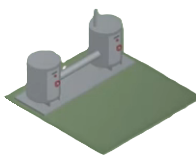
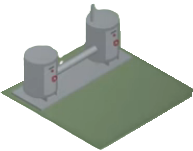
Add LabelMe polygon spike artifacts

diff --git a/spikes/labelme_polygon/notes.md b/spikes/labelme_polygon/notes.md
@@ -1,47 +1,83 @@
-# Notes: labelme_polygon spike — concrete execution plan
+# Notes: labelme_polygon spike - first controlled test
 
-Purpose
-- Track the step-by-step plan for validating whether LabelMe-style polygon annotation yields usable `mask_file` and `final_output_file` artifacts for VikVec.
+## Purpose
 
-Planned steps (do not install anything yet)
-1. Prepare test inputs: confirm `input/reference_scene.png` exists in the workspace. If it does not exist, add a small representative image under `spikes/labelme_polygon/inputs/`.
-2. (Manual) Open the image in LabelMe (desktop) and draw a polygon around `scene_process_tanks_iso_01`, excluding neighboring fragments.
-3. Export LabelMe JSON annotation and, if possible, an exported mask PNG. Capture a screenshot of the polygon in the UI.
-4. Locally (prototype script), convert the polygon into a mask PNG if LabelMe did not export one. Do this in the spike folder only.
-5. Apply the mask to the source image to produce a `final_output_file` RGBA (alpha) PNG.
-6. Record results in `spikes/labelme_polygon/notes.md` and copy artifacts to `spikes/labelme_polygon/outputs/`.
+Track the plan and later findings for validating whether a LabelMe-style polygon annotation workflow can produce clean mask data for VikVec before testing heavier model-backed inference.
 
-Checklist for each run
+## Test contract
+
+- Test image: `input/reference_scene.png`
+- Target asset: `scene_process_tanks_iso_01`
+- Core question: Can a LabelMe-style polygon annotation workflow create a clean mask around the process/tank scene and export data that VikVec can use?
+- Expected manual annotation: one polygon around only the tank/process scene, excluding neighboring fragments.
+- Initial manifest example: `spikes/labelme_polygon/example_manifest_entry.json`
+
+## Planned steps (do not install anything yet)
+
+1. Confirm `input/reference_scene.png` is present.
+2. After explicit approval, install/run LabelMe locally.
+3. Open `input/reference_scene.png` in LabelMe.
+4. Draw a polygon around `scene_process_tanks_iso_01`, excluding neighboring fragments and unrelated scene pieces.
+5. Save the LabelMe JSON annotation under `spikes/labelme_polygon/outputs/`.
+6. Record the polygon points from the LabelMe JSON.
+7. Export a mask PNG if LabelMe supports it in the approved local setup; otherwise plan a small spike-only JSON-to-mask conversion helper later.
+8. Later, apply the mask to produce a transparent PNG and record the `final_output_file` path.
+9. Later, update the manifest entry fields once real outputs exist.
+
+## Expected outputs
+
+- LabelMe JSON annotation.
+- Polygon points for the target asset.
+- `mask_file` or `polygon` field.
+- `final_output_file` transparent PNG path later.
+- Manifest entry later.
+
+## Checklist for each run
+
 - Input present: `input/reference_scene.png`
-- Polygon JSON exported and polygon points verified
-- Mask PNG present (either exported or generated)
-- `final_output_file` RGBA produced and visually verified (no neighboring fragments)
-- Manifest mapping verified: polygon points and mask path recorded
+- Polygon JSON exported.
+- Polygon points verified.
+- Mask PNG present, either exported or generated later.
+- `final_output_file` RGBA produced later.
+- Visual review confirms no neighboring scene fragments remain.
+- Manifest mapping verified for `extraction_method`, `mask_type`, `polygon`, `mask_file`, `final_output_file`, and `review_status`.
 
-Mapping to VikVec manifest fields (example)
+## VikVec manifest mapping
+
 ```
 {
-	"asset_name": "scene_process_tanks_iso_01",
-	"extraction_method": "labelme_polygon",
-	"mask_type": "polygon",
-	"polygon": [[x1,y1],[x2,y2],...],
-	"mask_file": "spikes/labelme_polygon/outputs/scene_process_tanks_mask.png",
-	"final_output_file": "spikes/labelme_polygon/outputs/scene_process_tanks_final.png",
-	"review_status": "final_needs_visual_review"
+  "asset_name": "scene_process_tanks_iso_01",
+  "extraction_method": "labelme_polygon",
+  "mask_type": "polygon",
+  "polygon": [],
+  "mask_file": "spikes/labelme_polygon/outputs/scene_process_tanks_iso_01_mask.png",
+  "final_output_file": "spikes/labelme_polygon/outputs/scene_process_tanks_iso_01.png",
+  "review_status": "needs_annotation"
 }
 ```
 
-Success criteria
-- One clean transparent PNG produced for the target asset with no neighboring fragments.
-- Polygon points are storable and mappable in the manifest as above.
+## Success criteria
 
-Risk and mitigations
-- Risk: LabelMe requires desktop and PyQt. Mitigation: do not install as part of this spike; run manual evaluation on a separate approved machine or get approval first.
+- No neighboring scene fragments remain.
+- Polygon points can be stored in the VikVec manifest.
+- Output can map to:
+  - `extraction_method: labelme_polygon`
+  - `mask_type: polygon`
+  - `polygon`
+  - `mask_file`
+  - `final_output_file`
+  - `review_status`
 
-Recordkeeping
+## Dependency risk
+
+Low to medium. LabelMe is lighter than SAM/SAM2 and tests the review workflow before model inference, but it can still involve Python desktop UI dependencies such as PyQt.
+
+## Recordkeeping
+
 - Save screenshots, exported JSON, generated mask PNG, and final RGBA in `spikes/labelme_polygon/outputs/` with timestamps.
+- Do not modify VikVec core code as part of this spike.
+- Do not install SAM/SAM2, torch, Stable Diffusion, LaMa, or checkpoints.
 
-Next actions after approval
-- If the manual spike succeeds and the process is valuable, propose either:
-	- a small helper script in `spikes/labelme_polygon/` to convert LabelMe JSON → mask PNG and integrate into a `vikvec/backends/labelme_polygon.py` adapter (design only), or
-	- document a reviewer workflow linking to `docs/spike_plan_mask_tools.md` and update architecture docs.
+## Next action after approval
+
+Install and run LabelMe locally, then annotate `input/reference_scene.png` and save the JSON output under `spikes/labelme_polygon/outputs/`.

diff --git a/spikes/labelme_polygon/README.md b/spikes/labelme_polygon/README.md
@@ -1,36 +1,66 @@
-# Spike: labelme_polygon — concrete test plan
+# Spike: labelme_polygon - first controlled test
 
-Question tested
-- Can a LabelMe-style polygon annotation workflow produce a usable `mask_file` and `final_output_file` for VikVec for a single target asset (without installing dependencies now)?
+## Constraint
 
-Test image
+Do not install LabelMe, SAM, SAM2, PyTorch, Stable Diffusion, LaMa, model checkpoints, or external repos for this documentation step. This spike only defines the first manual polygon workflow test and expected VikVec manifest mapping.
+
+## Question
+
+Can a LabelMe-style polygon annotation workflow create a clean mask around the process/tank scene and export data that VikVec can use?
+
+## Test image
+
 - `input/reference_scene.png`
 
-Target asset
-- `scene_process_tanks_iso_01` (first target: annotate the tank/process scene)
+## Target asset
 
-Expected annotation
-- A polygon drawn around only the tank/process scene, explicitly excluding neighboring fragments and other scene clutter.
+- `scene_process_tanks_iso_01`
 
-Expected LabelMe output
-- A JSON annotation file containing a polygon (list of [x, y] points) for the target object, and optionally an exported mask PNG rendered from that polygon.
+## Expected manual annotation
 
-Expected VikVec mapping
+- Draw one polygon around only the tank/process scene.
+- Exclude neighboring fragments and unrelated scene pieces.
+- Use the polygon as the authoritative shape for the asset, with the bbox retained only as candidate/context metadata.
+
+## Expected outputs
+
+- LabelMe JSON annotation.
+- Polygon points for `scene_process_tanks_iso_01`.
+- `mask_file` path or a manifest `polygon` field that can be rendered into a mask.
+- `final_output_file` transparent PNG path later, after mask application is tested.
+- Manifest entry later, using the fields shown in `example_manifest_entry.json`.
+
+## Expected VikVec mapping
+
 - `asset_name`: `scene_process_tanks_iso_01`
 - `extraction_method`: `labelme_polygon`
 - `mask_type`: `polygon`
-- `polygon`: list of polygon points extracted from LabelMe JSON
-- `mask_file`: path to exported mask PNG (relative or absolute)
-- `final_output_file`: RGBA PNG produced by applying the mask to the source crop or source image
-- `review_status`: e.g., `final_needs_visual_review` or `success`
+- `polygon`: polygon points extracted from LabelMe JSON
+- `mask_file`: exported or generated mask PNG path
+- `final_output_file`: RGBA PNG path after the mask is applied
+- `review_status`: `needs_annotation`, then a later review state after testing
 
-Success criteria
-- Produce one clean transparent PNG asset where the tank/process is isolated and no neighboring scene fragments remain.
-- Polygon points are storable in the manifest and map correctly to the `polygon` field.
-- The manual annotation workflow is practical for reviewer correction (scales moderately well for spot-corrections, not bulk automation).
+## Success criteria
 
-Install decision
-- Do not install LabelMe for this spike without approval. This README defines the test plan only; actual installs or UI runs require explicit signoff.
+- No neighboring scene fragments remain in the mask/final transparent PNG.
+- Polygon points can be stored in the VikVec manifest.
+- Output can map cleanly to:
+  - `extraction_method: labelme_polygon`
+  - `mask_type: polygon`
+  - `polygon`
+  - `mask_file`
+  - `final_output_file`
+  - `review_status`
+
+## Dependency risk
+
+Low to medium. LabelMe is lighter than SAM/SAM2 and tests the review workflow before model inference, but it may still require a desktop/PyQt setup.
+
+## Install decision
+
+Do not install LabelMe for this step. Actual install or UI testing requires explicit approval.
 
 Notes
-- If a full cloned repo is referenced during evaluation, record the source and license in `notes.md`. Keep any cloned or extracted files under `spikes/labelme_polygon/` and do not modify `vikvec/` core.
+- If a full cloned repo is referenced during evaluation, record the source and license in `notes.md`.
+- Keep any cloned, generated, or extracted files under `spikes/labelme_polygon/`.
+- Do not modify VikVec core code during this spike.